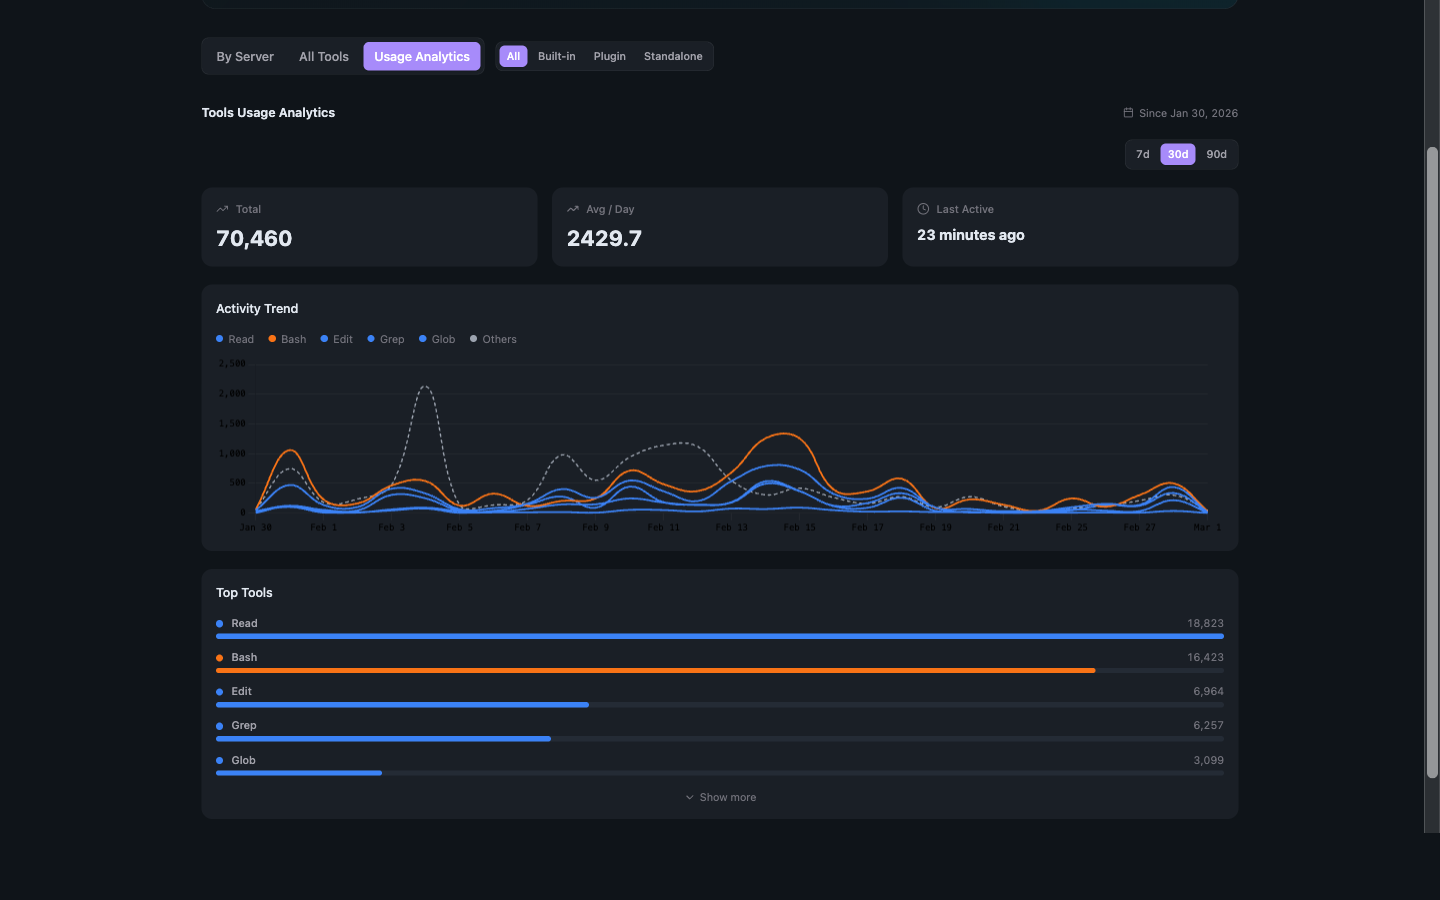
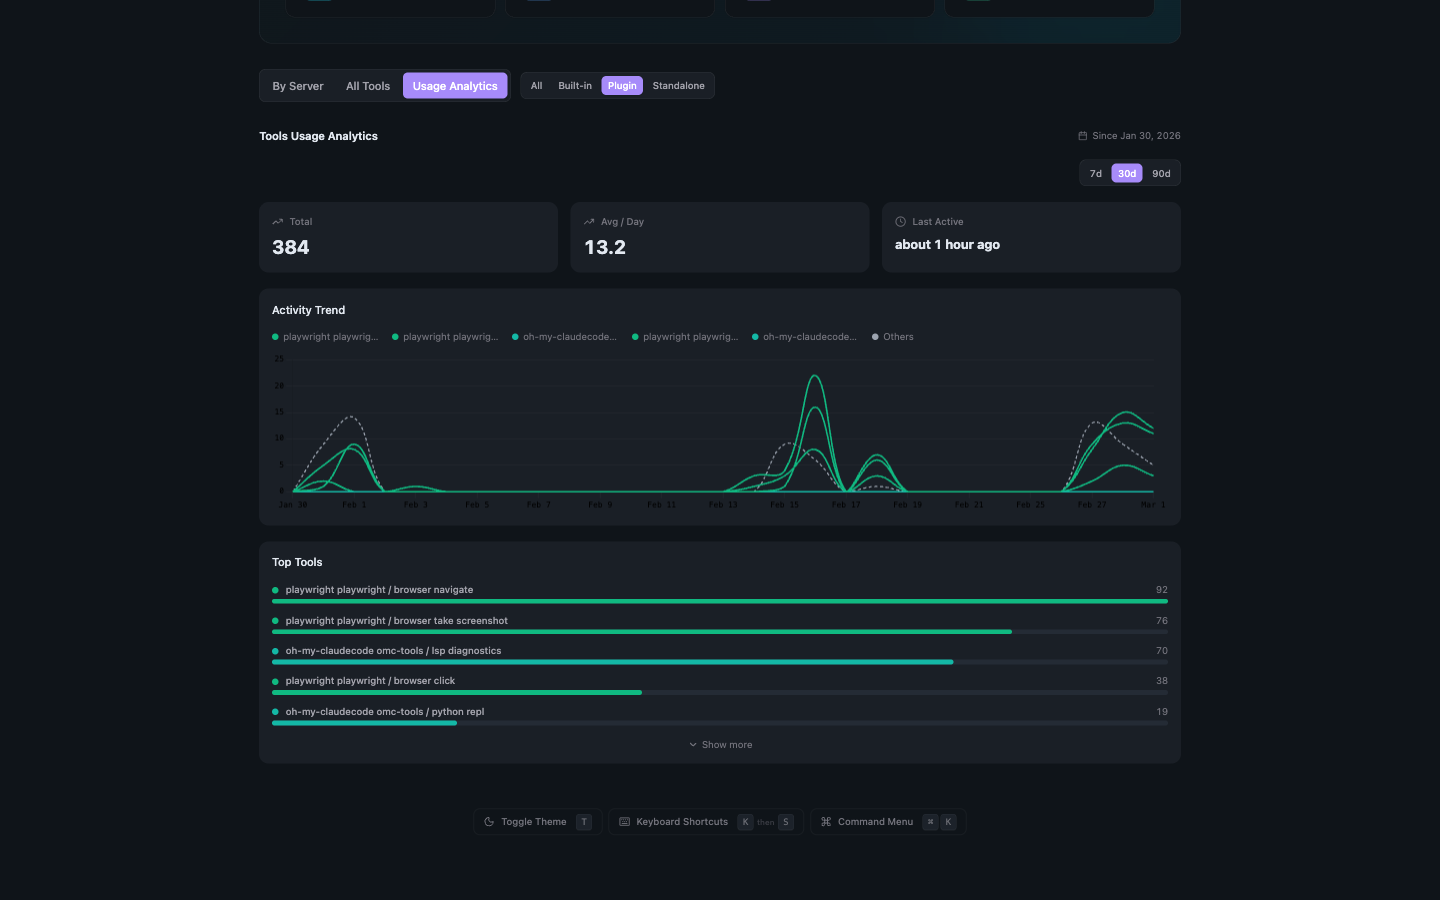
docs: add session detail tab screenshots and update tool analytics
Add screenshots for all 6 session tabs (Tasks, Files, Subagents, Skills,
Commands, Analytics) with descriptions in README. Update tool analytics
screenshot to show Plugin filter view.

diff --git a/README.md b/README.md
@@ -54,6 +54,46 @@ Dive into any session to see exactly what happened — every prompt, tool call, 
   <img src="docs/screenshots/session-timeline.png" alt="Session Timeline" width="100%" />
 </p>
 
+### Session Detail Tabs
+
+Each session page has dedicated tabs that break down different aspects of what happened during the session.
+
+**Tasks** — See all tasks Claude created and completed during the session, displayed in a flow view with status tracking.
+
+<p align="center">
+  <img src="docs/screenshots/session-tasks.png" alt="Session Tasks" width="100%" />
+</p>
+
+**Files** — Every file operation in a sortable table — reads, writes, edits — with timestamps, actors, and the tools that made each change.
+
+<p align="center">
+  <img src="docs/screenshots/session-files.png" alt="Session Files" width="100%" />
+</p>
+
+**Subagents** — Agents spawned during the session, grouped by type. Expand each to see message counts, tool calls, and what they were asked to do.
+
+<p align="center">
+  <img src="docs/screenshots/session-subagents.png" alt="Session Subagents" width="100%" />
+</p>
+
+**Skills** — Skills invoked via `/skill` commands during the session, with their source plugin and invocation count.
+
+<p align="center">
+  <img src="docs/screenshots/session-skills.png" alt="Session Skills" width="100%" />
+</p>
+
+**Commands** — Slash commands used during the session, showing built-in and plugin commands with usage counts.
+
+<p align="center">
+  <img src="docs/screenshots/session-commands.png" alt="Session Commands" width="100%" />
+</p>
+
+**Analytics** — Per-session cost breakdown, token usage, cache hit rates, tool distribution with a donut chart, and a ranked list of every tool used.
+
+<p align="center">
+  <img src="docs/screenshots/session-analytics.png" alt="Session Analytics" width="100%" />
+</p>
+
 ### Projects
 
 See all your Claude Code workspaces organized by git repository. Each project card shows session count and when it was last active. Expand git repos to see individual project directories inside them.
